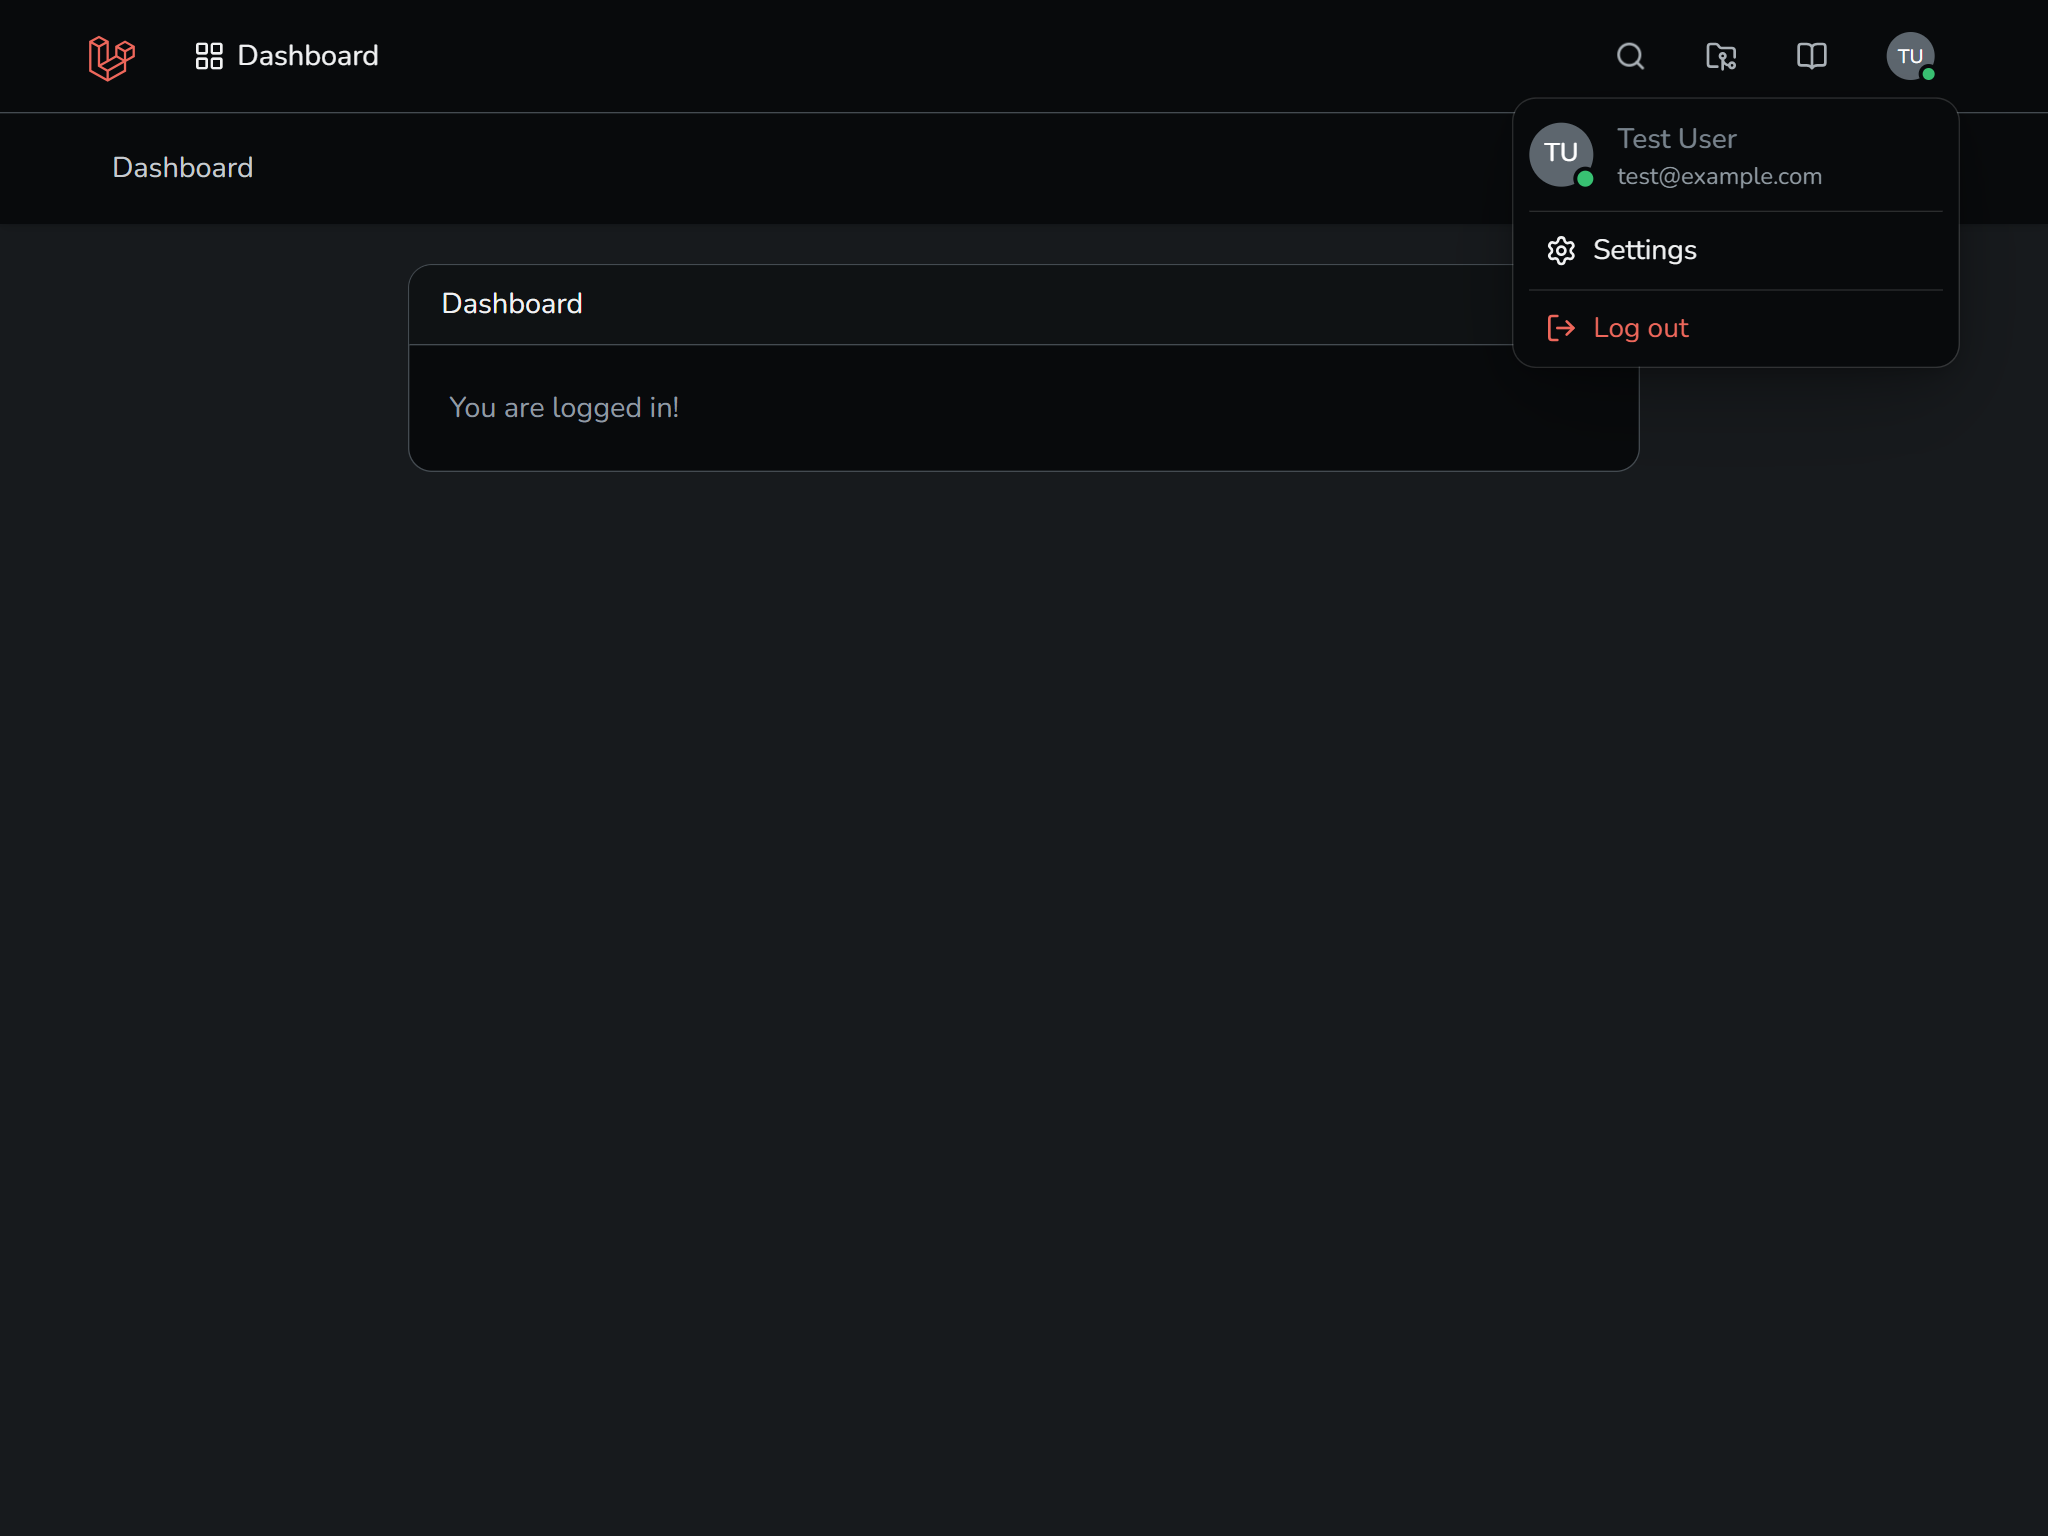
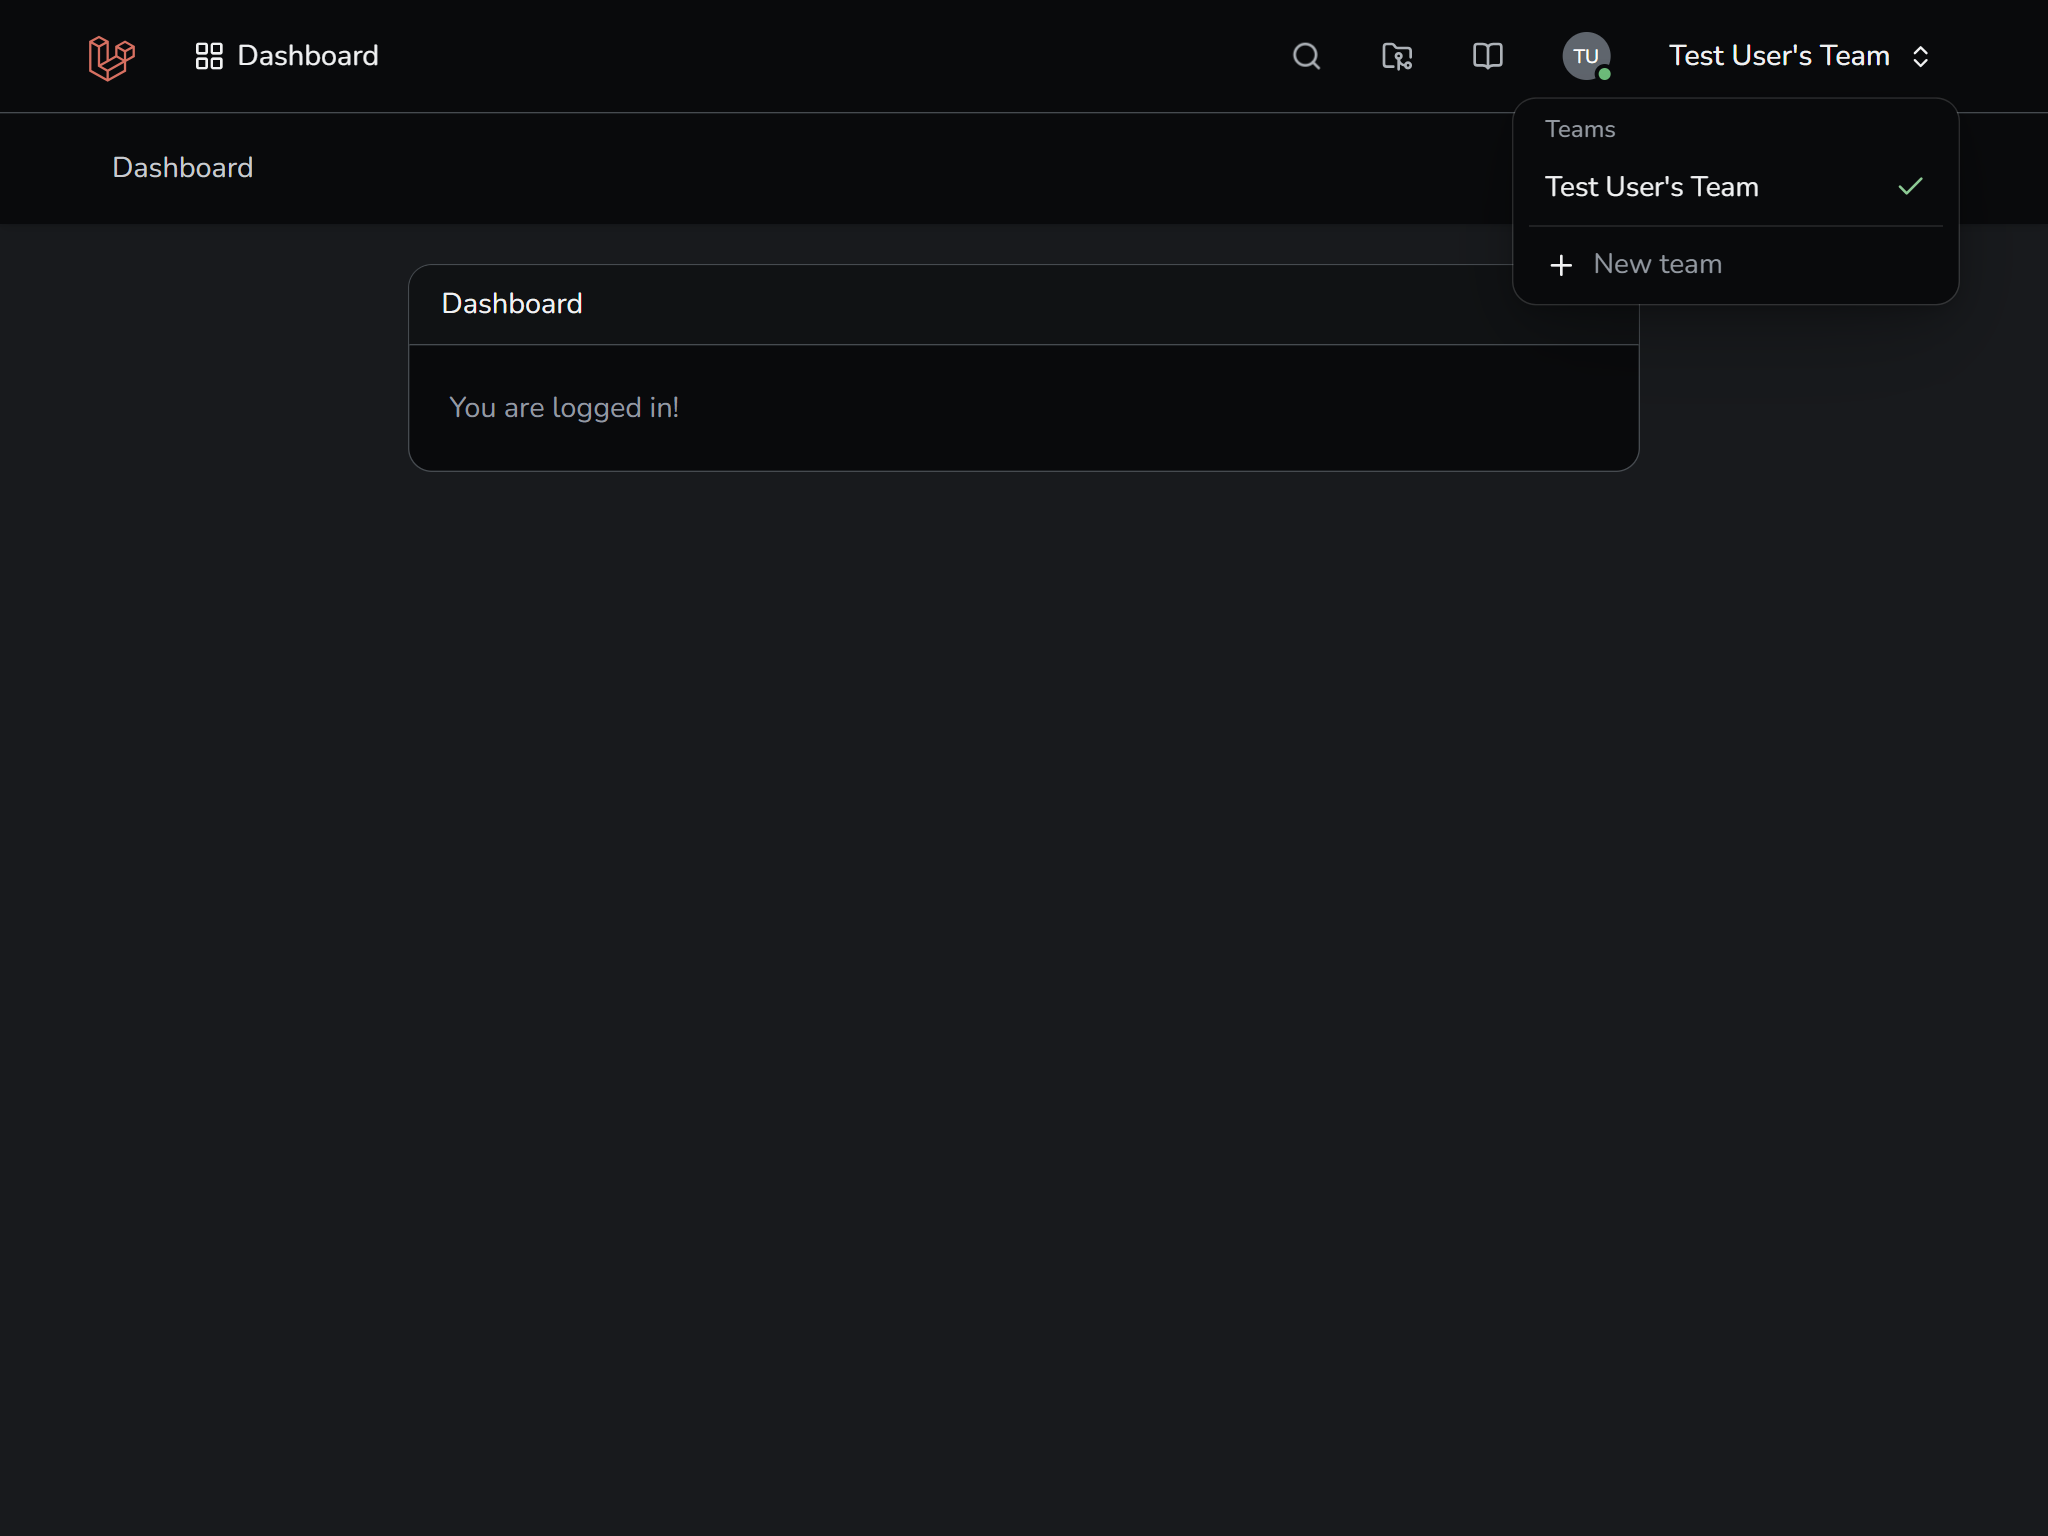
Update README

Changed region(s): [[0.75, 0.0, 0.9688, 0.125], [0.75, 0.1562, 0.8438, 0.2188]]

diff --git a/README.md b/README.md
@@ -1,22 +1,35 @@
-# Laravel + Bootstrap + Vue Starter Kit
+# Bootstrap + Inertia Starter Kit
 
-[![Build Status](https://github.com/kastsecho/vue-starter-kit/workflows/tests/badge.svg)](https://github.com/kastsecho/coreui-vue-starter-kit/actions)
-[![Total Downloads](https://img.shields.io/packagist/dt/kastsecho/vue-starter-kit)](https://packagist.org/packages/kastsecho/coreui-vue-starter-kit)
-[![Latest Stable Version](https://img.shields.io/packagist/v/kastsecho/vue-starter-kit)](https://packagist.org/packages/kastsecho/coreui-vue-starter-kit)
-[![Install with Herd](https://img.shields.io/badge/Install%20with%20Herd-f55247?logo=laravel&logoColor=white)](https://herd.laravel.com/new?starter-kit=kastsecho/vue-starter-kit)
+[![Build Status](https://github.com/kastsecho/bootstrap-inertia-starter-kit/actions/workflows/tests.yml/badge.svg)](https://github.com/kastsecho/bootstrap-inertia-starter-kit/actions)
+[![Total Downloads](https://img.shields.io/packagist/dt/kastsecho/bootstrap-inertia-starter-kit)](https://packagist.org/packages/kastsecho/bootstrap-inertia-starter-kit)
+[![Latest Version](https://img.shields.io/packagist/v/kastsecho/bootstrap-inertia-starter-kit?include_prereleases)](https://packagist.org/packages/kastsecho/bootstrap-inertia-starter-kit)
+[![Install with Herd](https://img.shields.io/badge/Install%20with%20Herd-f55247?logo=laravel&logoColor=white)](https://herd.laravel.com/new?starter-kit=kastsecho/bootstrap-inertia-starter-kit:dev-workos-teams)
 
 ## Introduction
 
-Our Vue starter kit provides a robust, modern starting point for building Laravel applications with a Vue frontend using [Inertia](https://inertiajs.com).
+Our Bootstrap + Inertia starter kit provides a robust, modern starting point for building Laravel applications with a Vue frontend using [Inertia](https://inertiajs.com).
 
-This Vue starter kit utilizes Vue 3 and the Composition API, TypeScript, and the [Bootstrap 6](https://www.getbootstrap.com) component library.
+This Vue starter kit utilizes Vue 3 and the Composition API, TypeScript, and the [Bootstrap 6](https://getbootstrap.com) component library.
 
 ![Preview](/PREVIEW.png)
 
-## Official Documentation
+## Installation
 
-Documentation for all Laravel starter kits can be found on the [Laravel website](https://laravel.com/docs/starter-kits).
+To create a new Laravel application using this starter kit, run:
+
+```php
+laravel new my-app --using=kastsecho/bootstrap-inertia-starter-kit:dev-workos-teams
+```
+
+## Documentation
+
+Documentation for this starter kit can be found on the following:
+
+- [Laravel](https://laravel.com/docs)
+- [Inertia](https://inertiajs.com/docs)
+- [Vue](https://vuejs.org/guide)
+- [Bootstrap](https://getbootstrap.com/docs)
 
 ## License
 
-The Laravel + Bootstrap + Vue starter kit is open-sourced software licensed under the MIT license.
+The Bootstrap + Inertia starter kit is open-sourced software licensed under the MIT license.
